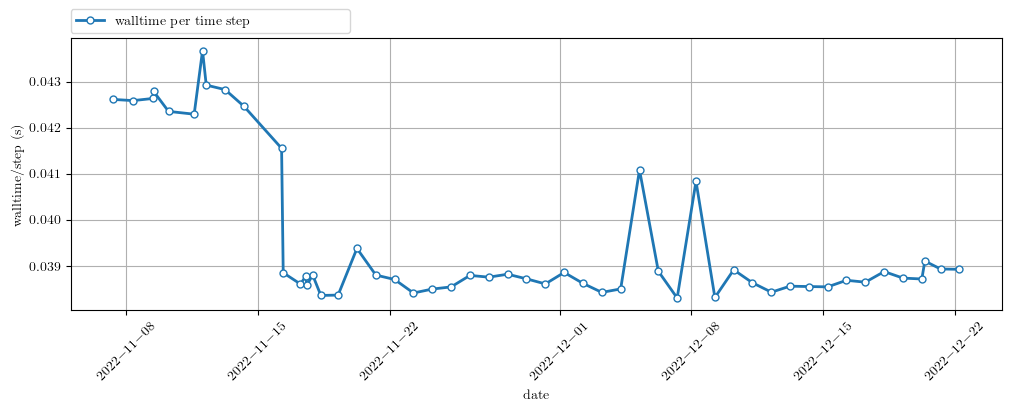
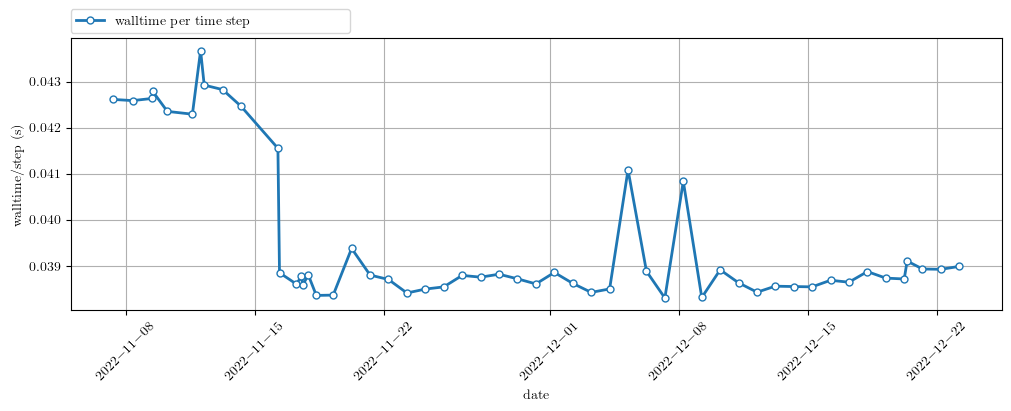
Automatic timing summary commit: lassen708 2022-12-23 05:01

diff --git a/README.md b/README.md
@@ -1,4 +1,4 @@
-Timings last ran on: 2022.12.22
+Timings last ran on: 2022.12.23
 
 # Status of production timings
 
